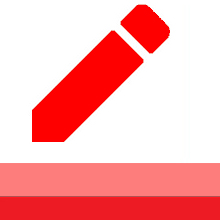
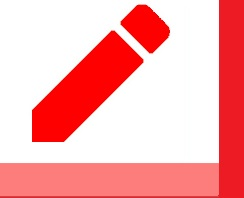
Color palette beside shapes

diff --git a/GUI/Output.cpp b/GUI/Output.cpp
@@ -6,8 +6,8 @@ Output::Output()
 	//Initialize user interface parameters
 	UI.InterfaceMode = MODE_DRAW;
 
-	UI.width = 1250;
-	UI.height = 1000;
+	UI.width = 1350;
+	UI.height = 700;
 	UI.wx = 5;
 	UI.wy = 5;
 
@@ -95,10 +95,11 @@ void Output::CreateDrawToolBar() const
 	//TODO: Prepare images for each menu item and add it to the list
 
 	//Draw menu item one image at a time
-	for (int i = 0; i < DRAW_ITM_COUNT ; i++)
+	for (int i = 0; i < DRAW_ITM_COUNT-3 ; i++)
 		pWind->DrawImage(MenuItemImages[i], i *UI.MenuItemWidth, 0, UI.MenuItemWidth, UI.ToolBarHeight - 3);
-
-	pWind->DrawImage("images\\MenuItems\\clean.jpg", DRAW_ITM_COUNT*UI.MenuItemWidth, 0, UI.width - DRAW_ITM_COUNT * UI.MenuItemWidth , UI.ToolBarHeight - 3);
+	//draw Exit icon
+	pWind->DrawImage(MenuItemImages[ITM_EXIT], (24)*UI.MenuActionWidth, 0, UI.MenuActionWidth + 40, UI.ToolBarHeight-3);
+	pWind->DrawImage("images\\MenuItems\\clean.jpg", (DRAW_ITM_COUNT+1)*UI.MenuItemWidth, 0, UI.width - (DRAW_ITM_COUNT * UI.MenuItemWidth)-250 , UI.ToolBarHeight - 3);
 
 	//Draw a line under the toolbar
 	pWind->SetPen(RED, 3);
@@ -124,7 +125,7 @@ void Output::CreateDrawActionToolBar()
 
 
 	//Draw menu action one image at a time
-	for (int i = 0; i < DRAW_ACTION_COUNT - 2; i++)
+	for (int i = 0; i < DRAW_ACTION_COUNT ; i++)
 		pWind->DrawImage(MenuActionsImages[i], 0, (i+1)*UI.ToolBarHeight, UI.MenuActionWidth - 3, UI.ToolBarHeight);
 
 	//Draw a line next to Action Menu
@@ -140,8 +141,8 @@ void Output::removeDrawActionToolBar()
 }
 void Output::CreateColorIcons()
 {
-	pWind->DrawImage("images\\MenuItems\\Menu_fill_color_black.jpg", 0, (ITM_FILL_COLOR + 1)*UI.ToolBarHeight, UI.MenuActionWidth - 3, UI.ToolBarHeight);
-	pWind->DrawImage("images\\MenuItems\\Menu_draw_color_black.jpg", 0, (ITM_DRAW_COLOR + 1)*UI.ToolBarHeight, UI.MenuActionWidth - 3, UI.ToolBarHeight);
+	pWind->DrawImage("images\\MenuItems\\Menu_fill_color_black.jpg",(ITM_FILL_COLOR)*UI.MenuItemWidth,0, UI.MenuActionWidth, UI.ToolBarHeight-3);
+	pWind->DrawImage("images\\MenuItems\\Menu_draw_color_black.jpg",(ITM_DRAW_COLOR)*UI.MenuItemWidth-50,0, UI.MenuActionWidth, UI.ToolBarHeight-3);
 }
 
 void Output::drawOnToolbar(string path , int place)
@@ -156,52 +157,52 @@ void Output::drawOnActionbar(string path, int place)
 
 void Output::drawColorMenu()
 {
-	pWind->DrawImage("images\\MenuItems\\colors.jpg", 0 , UI.ToolBarHeight * (DRAW_ACTION_COUNT +1) , UI.MenuActionWidth -3, 7* UI.ToolBarHeight);
+	pWind->DrawImage("images\\MenuItems\\colors.jpg",UI.MenuActionWidth* (DRAW_ITM_COUNT +5),0, UI.MenuActionWidth*7, UI.ToolBarHeight-3);
 }
 
 void Output::deleteColorMenu()
 {
-	pWind->DrawImage("images\\MenuItems\\clean.jpg", 0, UI.ToolBarHeight * (DRAW_ACTION_COUNT + 1), UI.MenuActionWidth -3, 7 * UI.ToolBarHeight);
+	pWind->DrawImage("images\\MenuItems\\clean.jpg",UI.MenuActionWidth * (DRAW_ITM_COUNT +5),0, UI.MenuActionWidth*7, UI.ToolBarHeight-3);
 }
 
 void Output::selectFillColor(Point p , color & fillColor , bool & isFilled) {
 
-	if (p.x > 0 && p.x < UI.MenuActionWidth) {
-		int selectedColor = ( (p.y - DRAW_ACTION_COUNT*UI.MenuActionWidth ) / UI.MenuActionWidth );
+	if (p.y > 0 && p.y < UI.ToolBarHeight) {
+		int selectedColor = ( (p.x - (DRAW_ITM_COUNT+4) * UI.MenuActionWidth ) / UI.MenuActionWidth );
 		
 		switch (selectedColor) {
 		case 1 :
-			pWind->DrawImage("images\\MenuItems\\Menu_fill_color_black.jpg", 0, (ITM_FILL_COLOR + 1)*UI.MenuActionWidth, UI.MenuActionWidth - 3, UI.ToolBarHeight);
+			pWind->DrawImage("images\\MenuItems\\Menu_fill_color_black.jpg",(ITM_FILL_COLOR)*UI.MenuItemWidth,0, UI.MenuActionWidth, UI.ToolBarHeight-3);
 			UI.FillColor = fillColor = BLACK;
 			isFilled = true;
 			return;
 		case 2:
-			pWind->DrawImage("images\\MenuItems\\Menu_fill_color_white.jpg", 0, (ITM_FILL_COLOR + 1)*UI.MenuActionWidth, UI.MenuActionWidth - 3, UI.ToolBarHeight);
+			pWind->DrawImage("images\\MenuItems\\Menu_fill_color_white.jpg",(ITM_FILL_COLOR)*UI.MenuItemWidth,0, UI.MenuActionWidth, UI.ToolBarHeight-3);
 			UI.FillColor = fillColor = WHITE;
 			isFilled = true;
 			return;
 		case 3:
-			pWind->DrawImage("images\\MenuItems\\Menu_fill_color_red.jpg", 0, (ITM_FILL_COLOR + 1)*UI.MenuActionWidth, UI.MenuActionWidth - 3, UI.ToolBarHeight);
+			pWind->DrawImage("images\\MenuItems\\Menu_fill_color_red.jpg",(ITM_FILL_COLOR)*UI.MenuItemWidth,0, UI.MenuActionWidth, UI.ToolBarHeight-3);
 			UI.FillColor = fillColor = RED;
 			isFilled = true;
 			return;
 		case 4:
-			pWind->DrawImage("images\\MenuItems\\Menu_fill_color_yellow.jpg", 0, (ITM_FILL_COLOR + 1)*UI.MenuActionWidth, UI.MenuActionWidth - 3, UI.ToolBarHeight);
+			pWind->DrawImage("images\\MenuItems\\Menu_fill_color_yellow.jpg",(ITM_FILL_COLOR)*UI.MenuItemWidth,0, UI.MenuActionWidth, UI.ToolBarHeight-3);
 			UI.FillColor = fillColor = YELLOW;
 			isFilled = true;
 			return;
 		case 5:
-			pWind->DrawImage("images\\MenuItems\\Menu_fill_color_green.jpg", 0, (ITM_FILL_COLOR + 1)*UI.MenuActionWidth, UI.MenuActionWidth - 3, UI.ToolBarHeight);
+			pWind->DrawImage("images\\MenuItems\\Menu_fill_color_green.jpg",(ITM_FILL_COLOR)*UI.MenuItemWidth,0, UI.MenuActionWidth, UI.ToolBarHeight-3);
 			UI.FillColor = fillColor = GREEN;
 			isFilled = true;
 			return;
 		case 6:
-			pWind->DrawImage("images\\MenuItems\\Menu_fill_color_blue.jpg", 0, (ITM_FILL_COLOR + 1)*UI.MenuActionWidth, UI.MenuActionWidth - 3, UI.ToolBarHeight);
+			pWind->DrawImage("images\\MenuItems\\Menu_fill_color_blue.jpg",(ITM_FILL_COLOR)*UI.MenuItemWidth,0, UI.MenuActionWidth, UI.ToolBarHeight-3);
 			UI.FillColor = fillColor = BLUE;
 			isFilled = true;
 			return ;
 		case 7:
-			pWind->DrawImage("images\\MenuItems\\Menu_fill_color_No.jpg", 0, (ITM_FILL_COLOR + 1)*UI.MenuActionWidth, UI.MenuActionWidth - 3, UI.ToolBarHeight);
+			pWind->DrawImage("images\\MenuItems\\Menu_fill_color_No.jpg",(ITM_FILL_COLOR)*UI.MenuItemWidth,0, UI.MenuActionWidth, UI.ToolBarHeight-3);
 			isFilled = false;
 			return;
 		}
@@ -210,36 +211,36 @@ void Output::selectFillColor(Point p , color & fillColor , bool & isFilled) {
 
 void Output::selectDrawColor(Point p, color & drawColor) {
 
-	if (p.x > 0 && p.x < UI.MenuActionWidth) {
-		int selectedColor = ((p.y - DRAW_ACTION_COUNT * UI.MenuActionWidth) / UI.MenuActionWidth);
+	if (p.y > 0 && p.y < UI.ToolBarHeight) {
+		int selectedColor = ((p.x - (DRAW_ACTION_COUNT + 4) * UI.MenuActionWidth) / UI.MenuActionWidth);
 
 		switch (selectedColor) {
 		case 1:
-			pWind->DrawImage("images\\MenuItems\\Menu_draw_color_black.jpg", 0, (ITM_DRAW_COLOR +1 )*UI.MenuActionWidth , UI.MenuActionWidth - 3, UI.ToolBarHeight);
+			pWind->DrawImage("images\\MenuItems\\Menu_draw_color_black.jpg",(ITM_DRAW_COLOR  )*UI.MenuItemWidth-50 ,0, UI.MenuActionWidth, UI.ToolBarHeight-3);
 			UI.DrawColor = drawColor = BLACK;
 			return;
 		case 2:
-			pWind->DrawImage("images\\MenuItems\\Menu_draw_color_white.jpg", 0, (ITM_DRAW_COLOR + 1)*UI.MenuActionWidth, UI.MenuActionWidth - 3, UI.ToolBarHeight);
+			pWind->DrawImage("images\\MenuItems\\Menu_draw_color_white.jpg",(ITM_DRAW_COLOR )*UI.MenuItemWidth-50,0, UI.MenuActionWidth, UI.ToolBarHeight-3);
 			UI.DrawColor = drawColor = WHITE;
 			return;
 		case 3:
-			pWind->DrawImage("images\\MenuItems\\Menu_draw_color_red.jpg",   0, (ITM_DRAW_COLOR + 1)*UI.MenuActionWidth, UI.MenuActionWidth - 3, UI.ToolBarHeight);
+			pWind->DrawImage("images\\MenuItems\\Menu_draw_color_red.jpg",  (ITM_DRAW_COLOR )*UI.MenuItemWidth-50,0, UI.MenuActionWidth, UI.ToolBarHeight-3);
 			UI.DrawColor = drawColor = RED;
 			return;
 		case 4:
-			pWind->DrawImage("images\\MenuItems\\Menu_draw_color_yellow.jpg",0, (ITM_DRAW_COLOR + 1)*UI.MenuActionWidth, UI.MenuActionWidth - 3, UI.ToolBarHeight);
+			pWind->DrawImage("images\\MenuItems\\Menu_draw_color_yellow.jpg",(ITM_DRAW_COLOR )*UI.MenuItemWidth-50,0, UI.MenuActionWidth, UI.ToolBarHeight-3);
 			UI.DrawColor = drawColor = YELLOW;
 			return;
 		case 5:
-			pWind->DrawImage("images\\MenuItems\\Menu_draw_color_green.jpg", 0, (ITM_DRAW_COLOR + 1)*UI.MenuActionWidth, UI.MenuActionWidth - 3, UI.ToolBarHeight);
+			pWind->DrawImage("images\\MenuItems\\Menu_draw_color_green.jpg", (ITM_DRAW_COLOR )*UI.MenuItemWidth-50,0, UI.MenuActionWidth, UI.ToolBarHeight-3);
 			UI.DrawColor = drawColor = GREEN;
 			return;
 		case 6:
-			pWind->DrawImage("images\\MenuItems\\Menu_draw_color_blue.jpg",  0, (ITM_DRAW_COLOR + 1)*UI.MenuActionWidth, UI.MenuActionWidth - 3, UI.ToolBarHeight);
+			pWind->DrawImage("images\\MenuItems\\Menu_draw_color_blue.jpg",  (ITM_DRAW_COLOR )*UI.MenuItemWidth-50,0, UI.MenuActionWidth, UI.ToolBarHeight-3);
 			UI.DrawColor = drawColor = BLUE;
 			return;
 		case 7:
-			pWind->DrawImage("images\\MenuItems\\Menu_draw_color_No.jpg", 0, (ITM_DRAW_COLOR + 1)*UI.MenuActionWidth, UI.MenuActionWidth - 3, UI.ToolBarHeight);
+			pWind->DrawImage("images\\MenuItems\\Menu_draw_color_No.jpg", (ITM_DRAW_COLOR )*UI.MenuItemWidth-50,0, UI.MenuActionWidth, UI.ToolBarHeight-3);
 			return;
 		}
 	}

diff --git a/GUI/Input.cpp b/GUI/Input.cpp
@@ -50,19 +50,26 @@ ActionType Input::GetUserAction() const
 
 			//Divide x coord of the point clicked by the menu item width (int division)
 			//if division result is 0 ==> first item is clicked, if 1 ==> 2nd item and so on
-
+		   if (x < (25 * UI.MenuActionWidth + 40) && x > 24 * UI.MenuActionWidth)
+				return EXIT;
+		   else if(x < (ITM_FILL_COLOR)*UI.MenuItemWidth+50 && x > (ITM_FILL_COLOR)*UI.MenuItemWidth)
+			   return CHNG_FILL_CLR;
+		   else if(x < (ITM_DRAW_COLOR)*UI.MenuItemWidth && x > (ITM_DRAW_COLOR)*UI.MenuItemWidth-50)
+			   return CHNG_DRAW_CLR;
+		   else{
 			switch (ClickedItemOrder)
 			{
-			case ITM_GAME: return TO_PLAY;
-			case ITM_RECT: return DRAW_RECT;
-			case ITM_EXIT: return EXIT;
-			case ITM_TRIANGLE: return DRAW_TRI;
-			case ITM_CIRCLE:   return DRAW_ELLIPSE;
-			case ITM_RHOMBUS:  return DRAW_RHOMBUS;
-			case ITM_LINE:	   return DRAW_LINE;
-
+			case ITM_GAME:      return TO_PLAY;
+			case ITM_RECT:      return DRAW_RECT;
+			case ITM_TRIANGLE:  return DRAW_TRI;
+			case ITM_CIRCLE:    return DRAW_ELLIPSE;
+			case ITM_RHOMBUS:   return DRAW_RHOMBUS;
+			case ITM_LINE:	    return DRAW_LINE;
+			
 			default: return EMPTY;	//A click on empty place in desgin toolbar
 			}
+		      }
+		   
 		}
 		else if (x >= 0 && x < UI.MenuActionWidth) {
 			int ClickedItemOrder = (y / UI.MenuActionWidth) - 1;
@@ -78,8 +85,7 @@ ActionType Input::GetUserAction() const
 			case ITM_DELETE:return DEL;
 			case ITM_CLEAR:return CLEAR;
 			case ITM_SELECT:return SELECT;
-			case ITM_FILL_COLOR:return CHNG_FILL_CLR;
-			case ITM_DRAW_COLOR:return CHNG_DRAW_CLR;
+			
 
 			default: return EMPTY;	//A click on empty place in desgin toolbar
 			}

diff --git a/TestCode.cpp b/TestCode.cpp
@@ -302,7 +302,7 @@ int main()
 			pOut->drawColorMenu();
 			while (true) {
 				pIn->GetPointClicked(P1.x, P1.y);
-				if (P1.x > UI.MenuActionWidth || P1.y < (DRAW_ACTION_COUNT +1) * UI.MenuActionWidth) {
+				if (P1.y > UI.ToolBarHeight || P1.x < (DRAW_ITM_COUNT-2) * UI.MenuActionWidth) {
 					pOut->deleteColorMenu();
 					pOut->CreateDrawToolBar();
 					break;
@@ -317,7 +317,7 @@ int main()
 			pOut->drawColorMenu();
 			while (true) {
 				pIn->GetPointClicked(P1.x, P1.y);
-				if (P1.x > UI.MenuActionWidth || P1.y < (DRAW_ACTION_COUNT + 1) * UI.MenuActionWidth) {
+				if (P1.y > UI.ToolBarHeight || P1.x < (DRAW_ITM_COUNT -2) * UI.MenuActionWidth) {
 					pOut->deleteColorMenu();
 					pOut->CreateDrawToolBar();
 					break;

diff --git a/GUI/UI_Info.h b/GUI/UI_Info.h
@@ -18,13 +18,17 @@ enum DrawMenuItem //The items of the Draw menu (you should add more items)
 	//Note: Items are ordered here as they appear in menu
 	//If you want to change the menu items order, change the order here
 
+	
 	ITM_GAME,
 	ITM_RECT,		//Recangle item in menu
 	ITM_TRIANGLE,
 	ITM_CIRCLE,
 	ITM_RHOMBUS,
 	ITM_LINE,
-	ITM_EXIT,		//Exit item
+	ITM_FILL_COLOR,
+	ITM_DRAW_COLOR,
+	ITM_EXIT,
+			//Exit item
 	
 	DRAW_ITM_COUNT		//no. of menu items ==> This should be the last line in this enum
 	
@@ -41,8 +45,7 @@ enum DrawMenuAction {
 	ITM_DELETE,
 	ITM_CLEAR,
 	ITM_SELECT,
-	ITM_FILL_COLOR,
-	ITM_DRAW_COLOR,
+	
 
 	DRAW_ACTION_COUNT, //no. of menu action items
 
